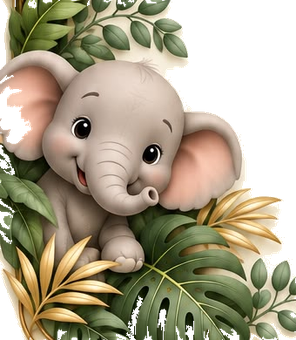
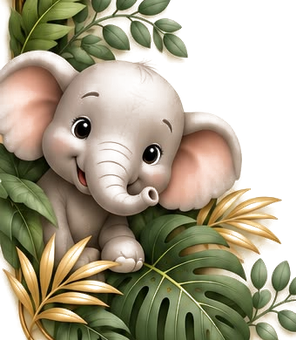
Corriger le détourage (artefact damier -> méthode saturation/luminosité) et réduire éléphant/lion pour ne plus chevaucher le bouton RSVP

diff --git a/app/page.tsx b/app/page.tsx
@@ -124,5 +124,5 @@ export default function Page() {
       <img src="/frame/top_right_leaves.png" alt="" className="absolute -right-2 -top-2 h-28 w-auto object-contain" />
       <img src="/frame/left_giraffe.png" alt="" className="absolute -left-3 top-40 h-36 w-auto object-contain" />
       <img src="/frame/right_zebra.png" alt="" className="absolute -right-3 top-44 h-32 w-auto object-contain" />
-    </div><div className="relative z-10"><div className="mx-auto mb-7 flex h-11 w-11 items-center justify-center rounded-full bg-[#dce5d7] text-[#788b76]"><Gift size={20} strokeWidth={1.4} /></div><p className="text-[10px] uppercase tracking-[0.4em] text-[#536755]">Une première bougie, un grand bonheur à partager...</p><h1 className="name-idle relative mt-4 select-none font-serif text-6xl italic tracking-tight text-[#536755] sm:text-7xl">Eyalane<span key={nameBurst} aria-hidden="true" className="pointer-events-none absolute inset-0">{["🦁", "🦒", "🐘", "🦓", "🦍", "🐆"].map((e, i) => <span key={i} className="name-burst-emoji" style={{ "--i": i } as any}>{e}</span>)}</span></h1><div className="mx-auto my-5 w-64 sm:w-72"><img src="/photos/eyalane-torn.png" alt="Eyalane" className="h-auto w-full drop-shadow-[0_12px_28px_rgba(83,103,85,0.28)]" /></div><p className="font-serif text-3xl text-[#536755]">1 an</p><p className="mx-auto mt-5 max-w-xs text-sm leading-6 text-[#7d8273]">Venez célébrer ce merveilleux moment à nos côtés et créer avec nous de précieux souvenirs ! 🥳</p><div className="mt-7 flex items-start justify-center divide-x divide-[#536755]/30 text-[10px] text-[#687166]"><div className="flex min-w-0 flex-1 flex-col items-center gap-2 px-2"><CalendarDays size={15} className="text-[#536755]" /><span>21 novembre</span></div><div className="flex min-w-0 flex-1 flex-col items-center gap-2 px-2"><Clock3 size={15} className="text-[#536755]" /><span>13h00</span></div><div className="flex min-w-0 flex-1 flex-col items-center gap-2 px-2"><MapPin size={15} className="text-[#536755]" /><span>Viry Châtillon</span></div></div><div className="mx-auto mt-6 flex w-fit items-center gap-3 rounded-full border border-[#536755]/25 bg-[#fbf6eb] px-4 py-2 text-[10px] tracking-wide text-[#78806f]"><span className="font-medium text-[#536755]">Dress code</span><span className="flex items-center gap-1.5"><span className="h-2.5 w-2.5 rounded-full border border-[#4a5a4c]/20 bg-[#536755]" />Vert sauge</span><span className="flex items-center gap-1.5"><span className="h-2.5 w-2.5 rounded-full border border-[#d9cdb8] bg-[#ece2cf]" />Beige</span></div><Countdown /><RsvpForm /></div></section><img aria-hidden="true" src="/frame/bottom_left_elephant.png" alt="" className="pointer-events-none absolute -left-3 bottom-0 z-0 h-36 w-auto object-contain" /><img aria-hidden="true" src="/frame/bottom_right_lion.png" alt="" className="pointer-events-none absolute -right-3 bottom-0 z-0 h-36 w-auto object-contain" /><button onClick={() => setAdmin(true)} aria-label="Ouvrir la vue admin" className="fixed bottom-4 right-4 rounded-full border border-[#536755]/30 bg-[#fffaf1]/80 p-3 text-[#9b8764] shadow-sm backdrop-blur transition hover:bg-white"><LockKeyhole size={14} /></button><p className="py-7 text-center text-[10px] uppercase tracking-[0.28em] text-[#aaa18f]">Avec tout notre amour</p></div></main>
+    </div><div className="relative z-10"><div className="mx-auto mb-7 flex h-11 w-11 items-center justify-center rounded-full bg-[#dce5d7] text-[#788b76]"><Gift size={20} strokeWidth={1.4} /></div><p className="text-[10px] uppercase tracking-[0.4em] text-[#536755]">Une première bougie, un grand bonheur à partager...</p><h1 className="name-idle relative mt-4 select-none font-serif text-6xl italic tracking-tight text-[#536755] sm:text-7xl">Eyalane<span key={nameBurst} aria-hidden="true" className="pointer-events-none absolute inset-0">{["🦁", "🦒", "🐘", "🦓", "🦍", "🐆"].map((e, i) => <span key={i} className="name-burst-emoji" style={{ "--i": i } as any}>{e}</span>)}</span></h1><div className="mx-auto my-5 w-64 sm:w-72"><img src="/photos/eyalane-torn.png" alt="Eyalane" className="h-auto w-full drop-shadow-[0_12px_28px_rgba(83,103,85,0.28)]" /></div><p className="font-serif text-3xl text-[#536755]">1 an</p><p className="mx-auto mt-5 max-w-xs text-sm leading-6 text-[#7d8273]">Venez célébrer ce merveilleux moment à nos côtés et créer avec nous de précieux souvenirs ! 🥳</p><div className="mt-7 flex items-start justify-center divide-x divide-[#536755]/30 text-[10px] text-[#687166]"><div className="flex min-w-0 flex-1 flex-col items-center gap-2 px-2"><CalendarDays size={15} className="text-[#536755]" /><span>21 novembre</span></div><div className="flex min-w-0 flex-1 flex-col items-center gap-2 px-2"><Clock3 size={15} className="text-[#536755]" /><span>13h00</span></div><div className="flex min-w-0 flex-1 flex-col items-center gap-2 px-2"><MapPin size={15} className="text-[#536755]" /><span>Viry Châtillon</span></div></div><div className="mx-auto mt-6 flex w-fit items-center gap-3 rounded-full border border-[#536755]/25 bg-[#fbf6eb] px-4 py-2 text-[10px] tracking-wide text-[#78806f]"><span className="font-medium text-[#536755]">Dress code</span><span className="flex items-center gap-1.5"><span className="h-2.5 w-2.5 rounded-full border border-[#4a5a4c]/20 bg-[#536755]" />Vert sauge</span><span className="flex items-center gap-1.5"><span className="h-2.5 w-2.5 rounded-full border border-[#d9cdb8] bg-[#ece2cf]" />Beige</span></div><Countdown /><RsvpForm /></div></section><img aria-hidden="true" src="/frame/bottom_left_elephant.png" alt="" className="pointer-events-none absolute -left-2 bottom-1 z-0 h-20 w-auto object-contain" /><img aria-hidden="true" src="/frame/bottom_right_lion.png" alt="" className="pointer-events-none absolute -right-2 bottom-1 z-0 h-20 w-auto object-contain" /><button onClick={() => setAdmin(true)} aria-label="Ouvrir la vue admin" className="fixed bottom-4 right-4 rounded-full border border-[#536755]/30 bg-[#fffaf1]/80 p-3 text-[#9b8764] shadow-sm backdrop-blur transition hover:bg-white"><LockKeyhole size={14} /></button><p className="py-7 text-center text-[10px] uppercase tracking-[0.28em] text-[#aaa18f]">Avec tout notre amour</p></div></main>
 }
